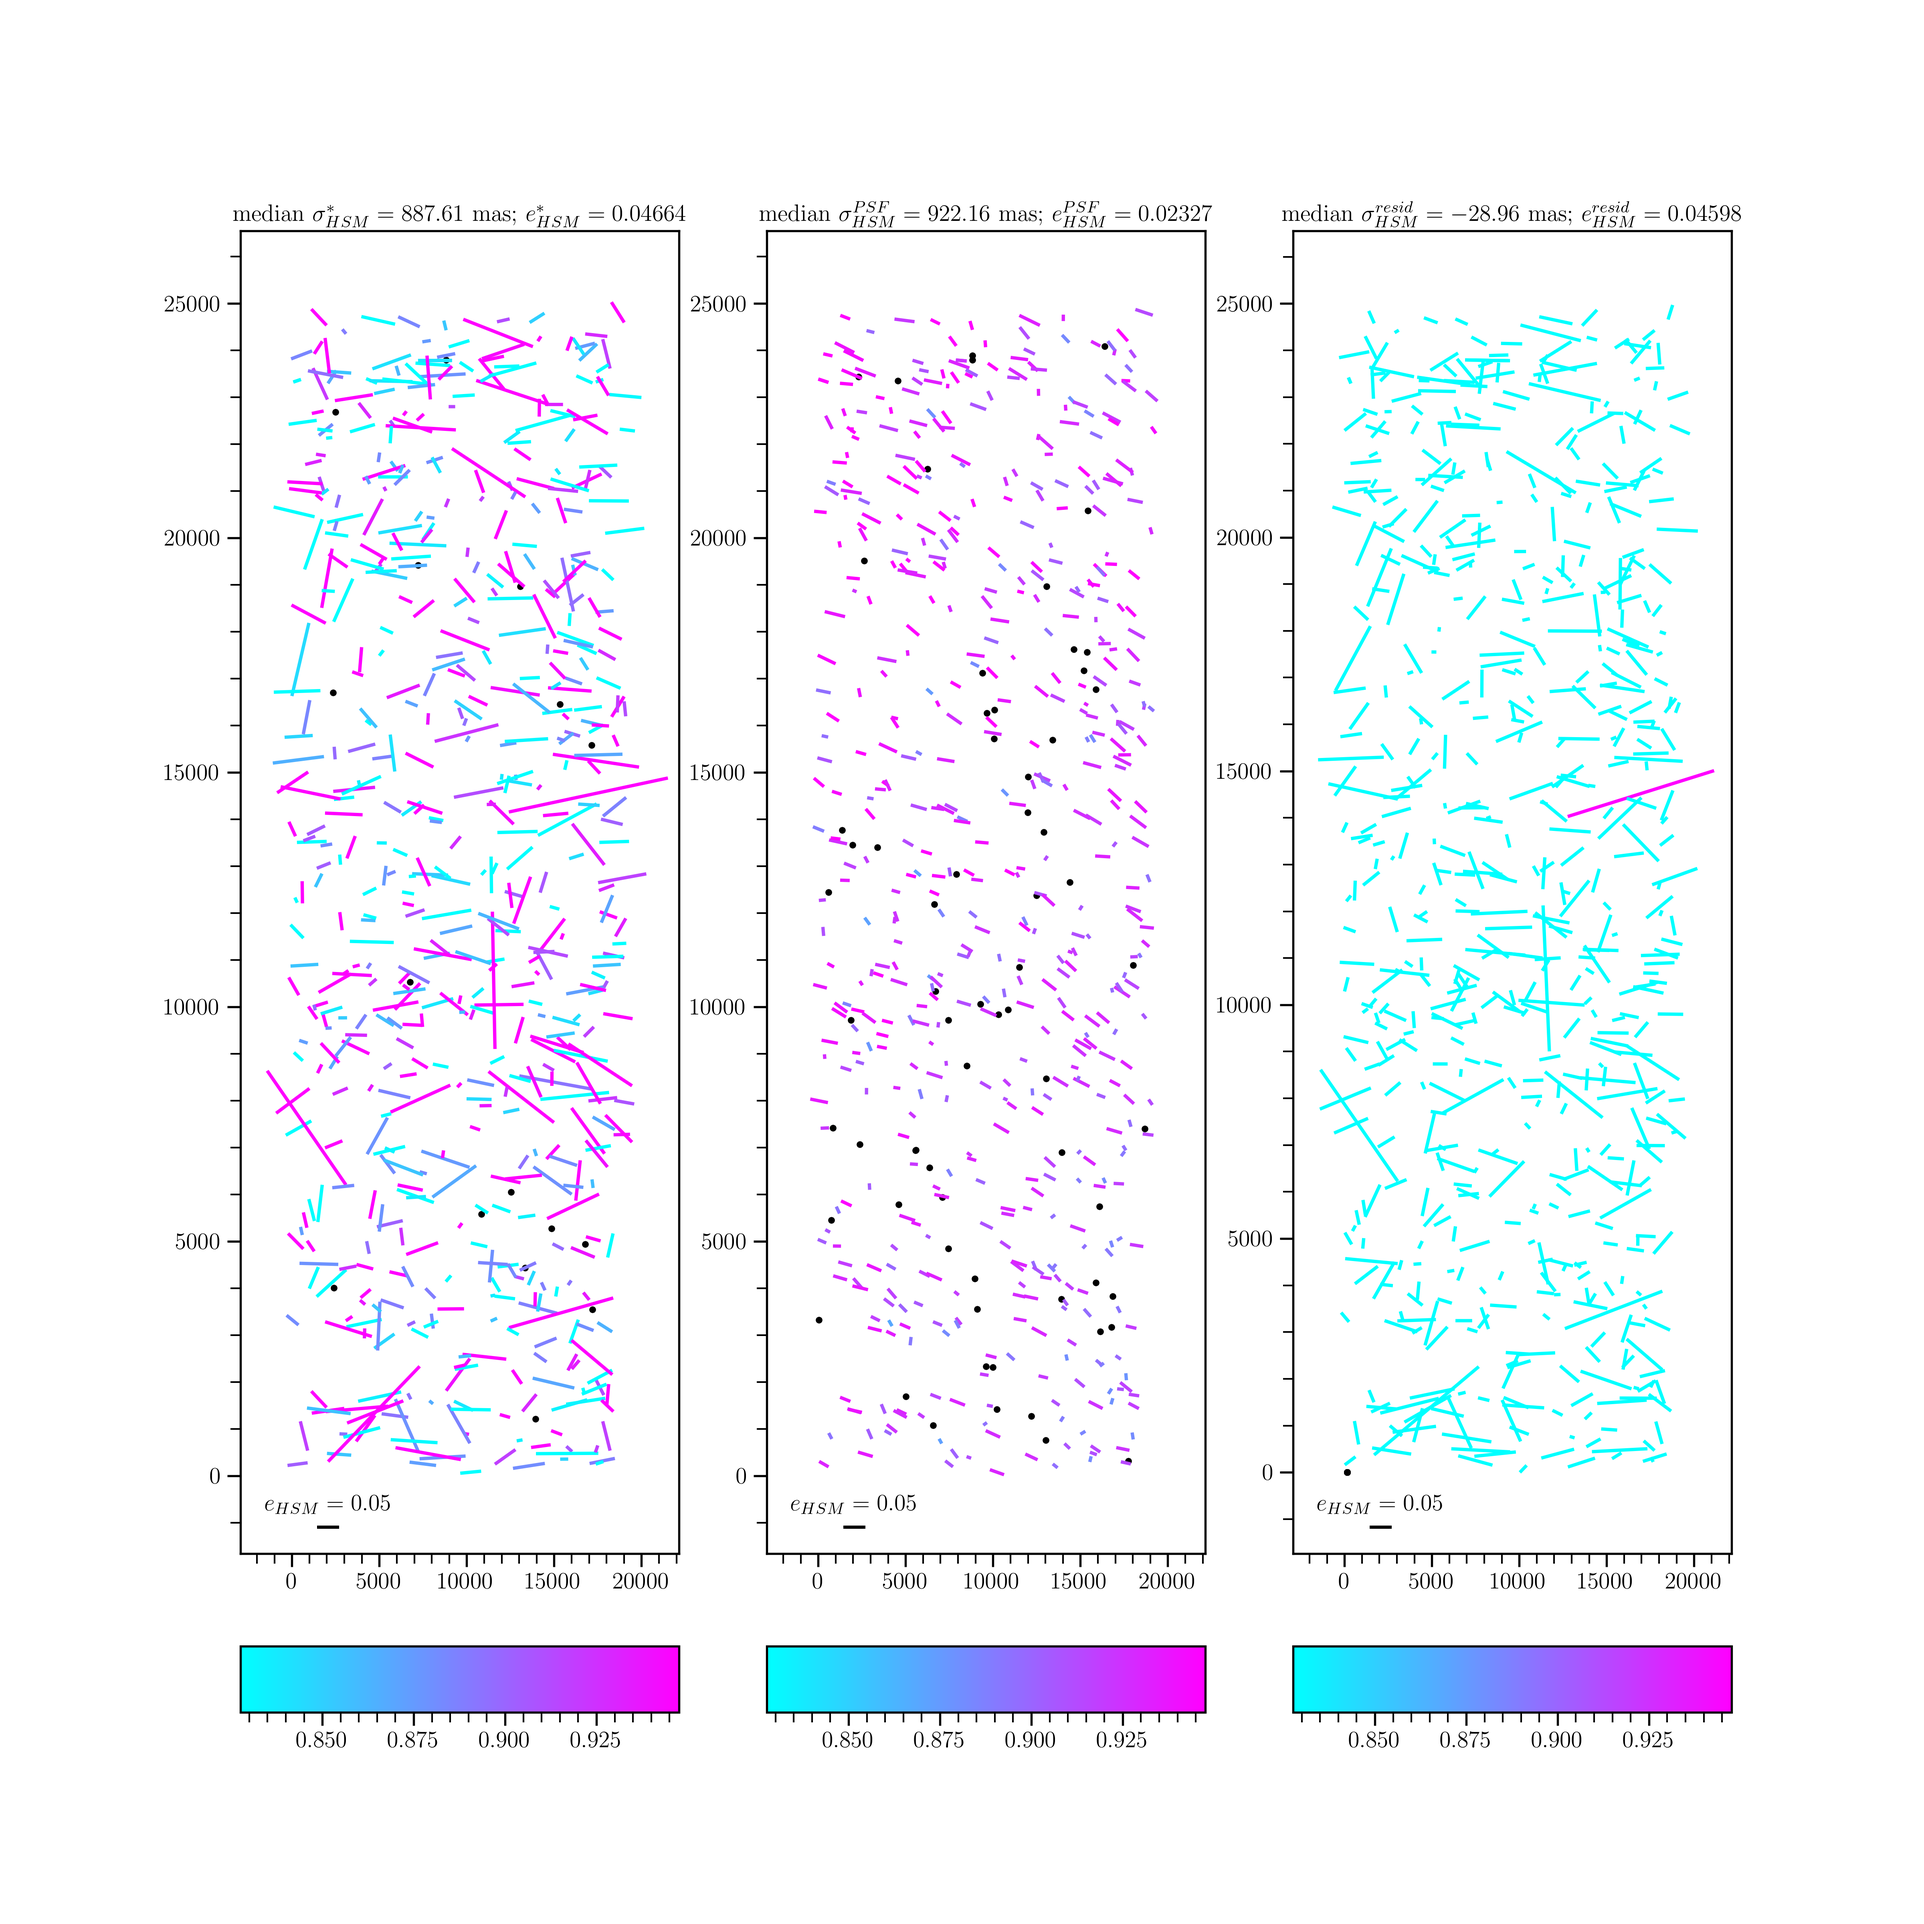
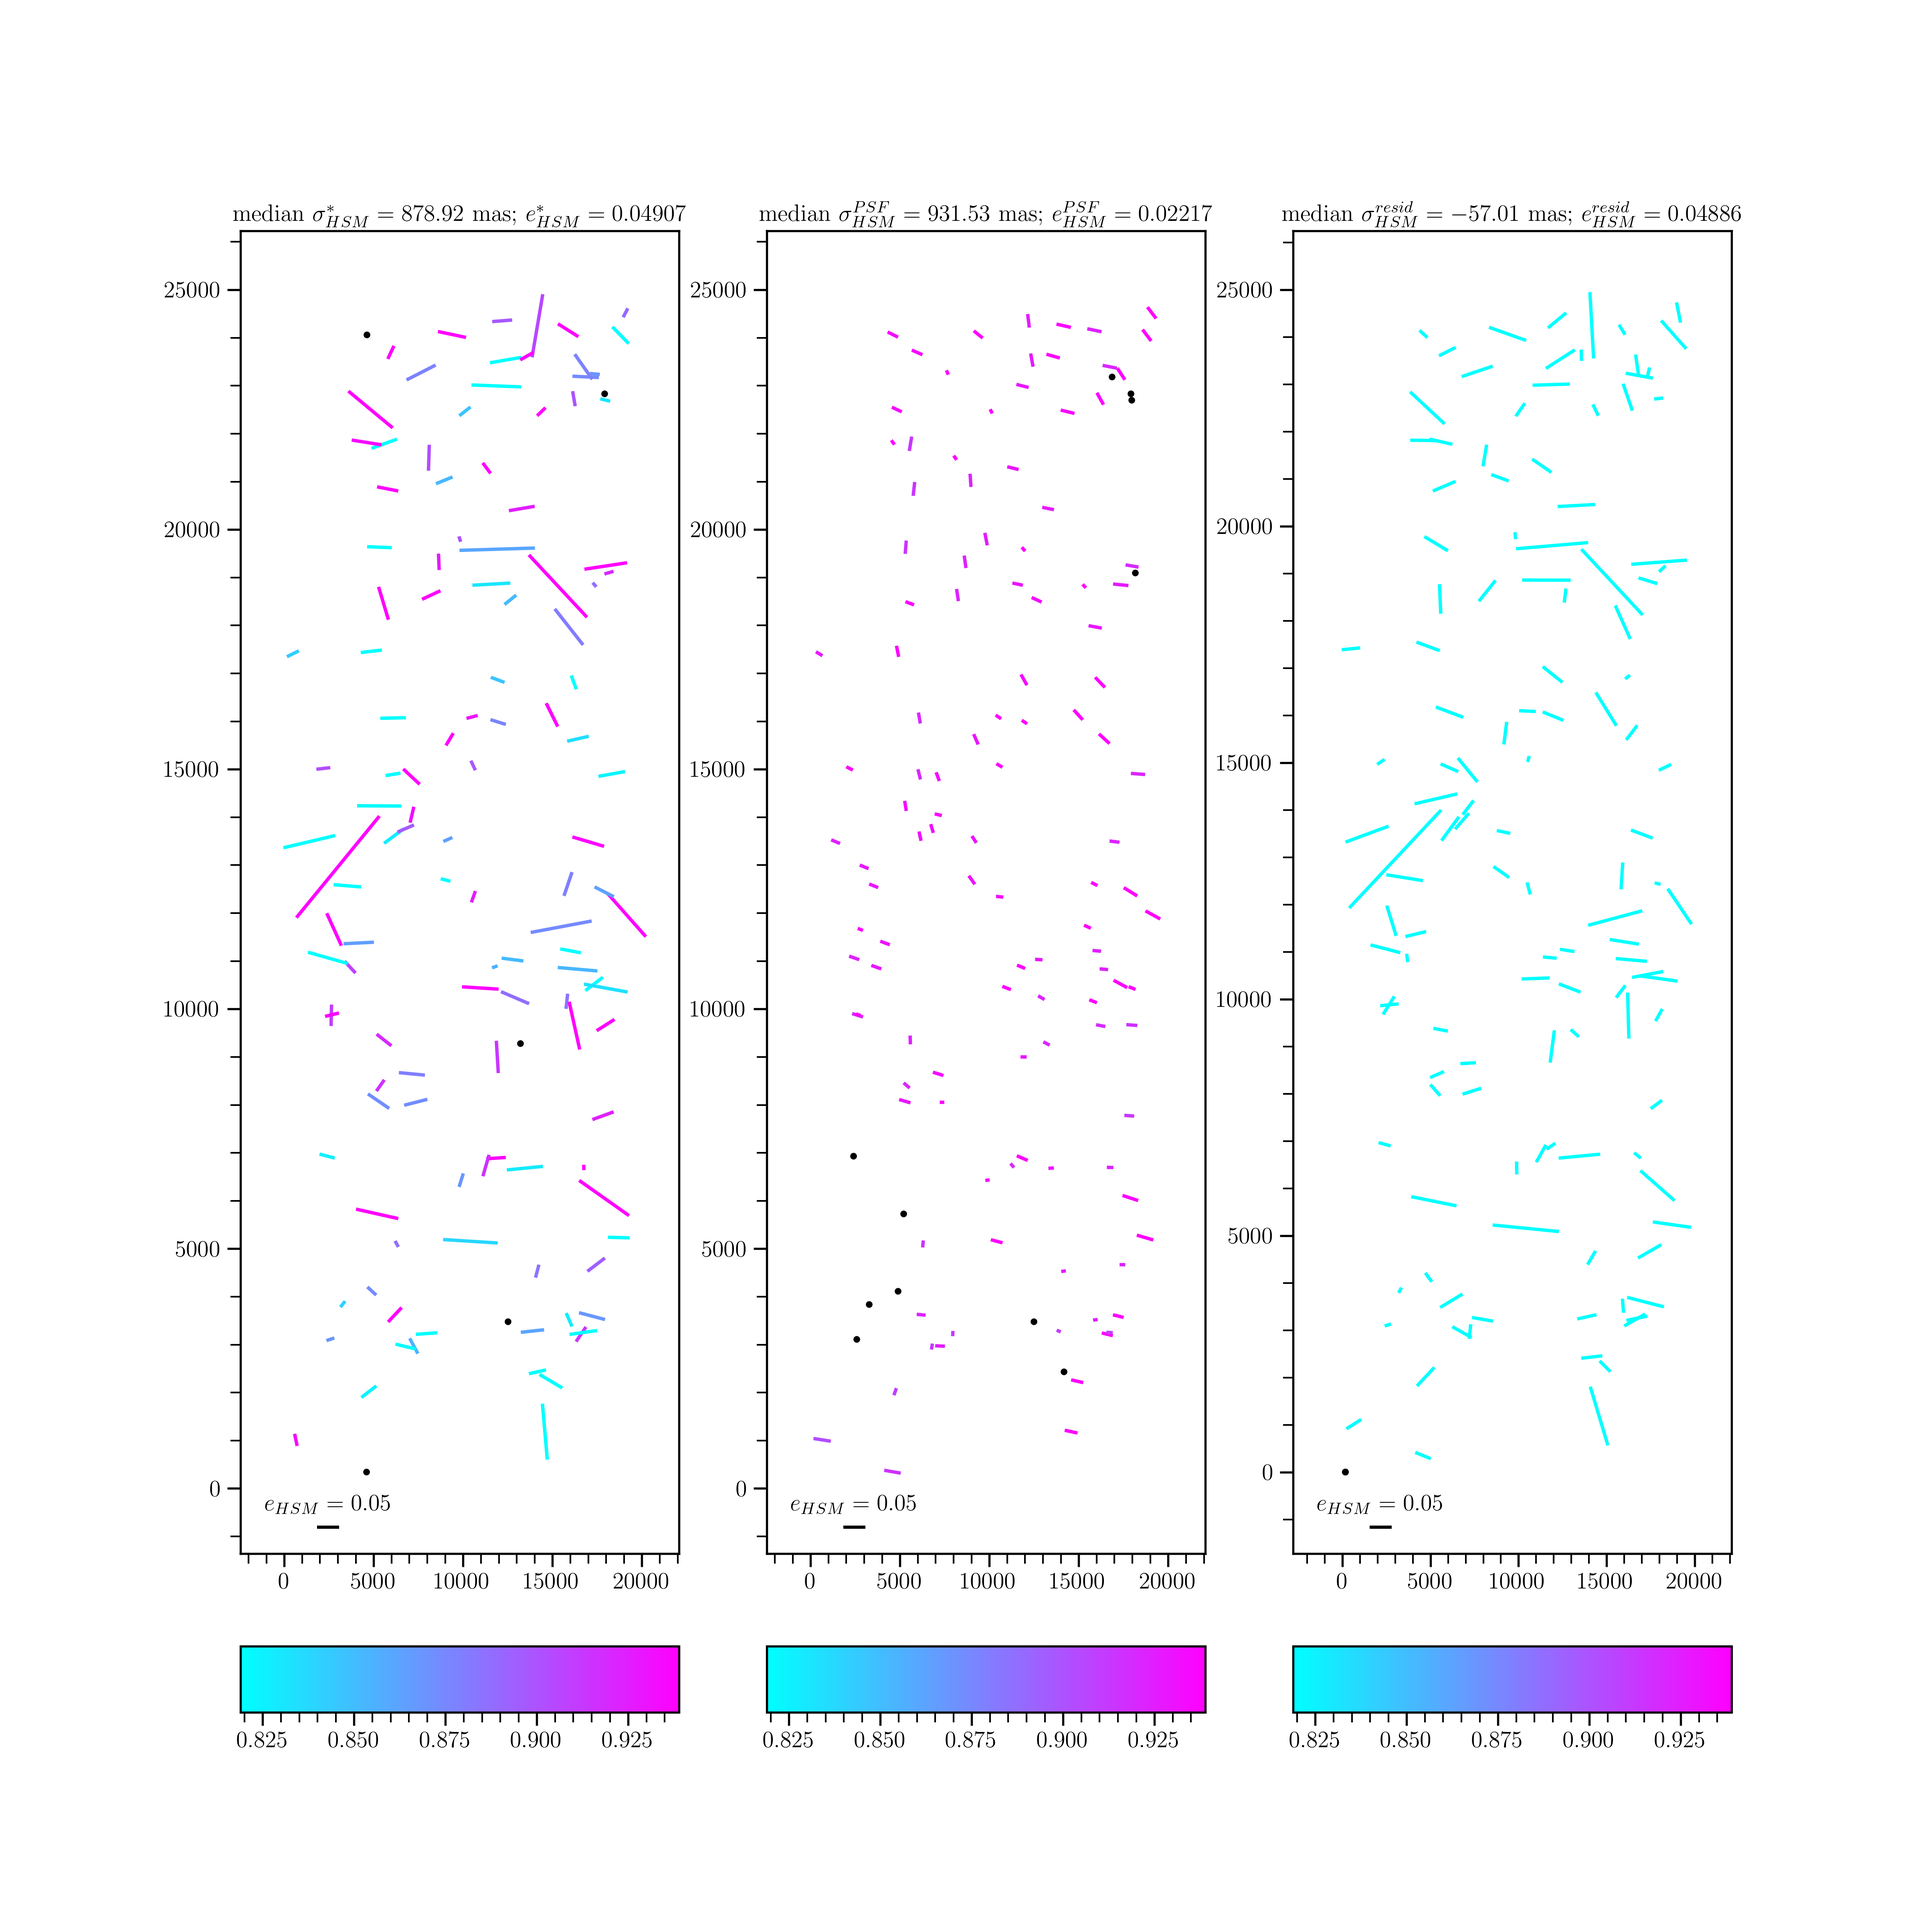
chat he's cooking

diff --git a/benchmarks/quiver_plot.py b/benchmarks/quiver_plot.py
@@ -43,7 +43,7 @@ def set_rc_params(fontsize=None):
 set_rc_params(fontsize=14)
 
 f115w = fits.open('f115w_validation_split_augmented_resized_xy_info.fits')
-f150w = fits.open('f150w_validation_split_augmented_resized_xy_info.fits')
+f150w = fits.open('revised_apr_f115w_shopt_xy_info.fits')
 
 f115w_hsm = f150w[1].data
 
@@ -199,6 +199,6 @@ print(f'g1 = {np.mean(g1_vignet)} +/- {np.std(g1_vignet)}, g2 = {np.mean(g2_vign
 print("PSFEx:")
 print(f'g1 = {np.mean(g1_psfex)} +/- {np.std(g1_psfex)}, g2 = {np.mean(g2_psfex)} +/- {np.std(g2_psfex)}, sigma = {np.mean(sig_psfex)} +/- {np.std(sig_psfex)}')
 
-plt.savefig('/home/eddieberman/research/mcclearygroup/AstroCorr/assets/f150w_hsm_quiver.png', dpi=300)
+plt.savefig('/home/eddieberman/research/mcclearygroup/AstroCorr/assets/f115w_hsm_quiver.png', dpi=300)
 
 
